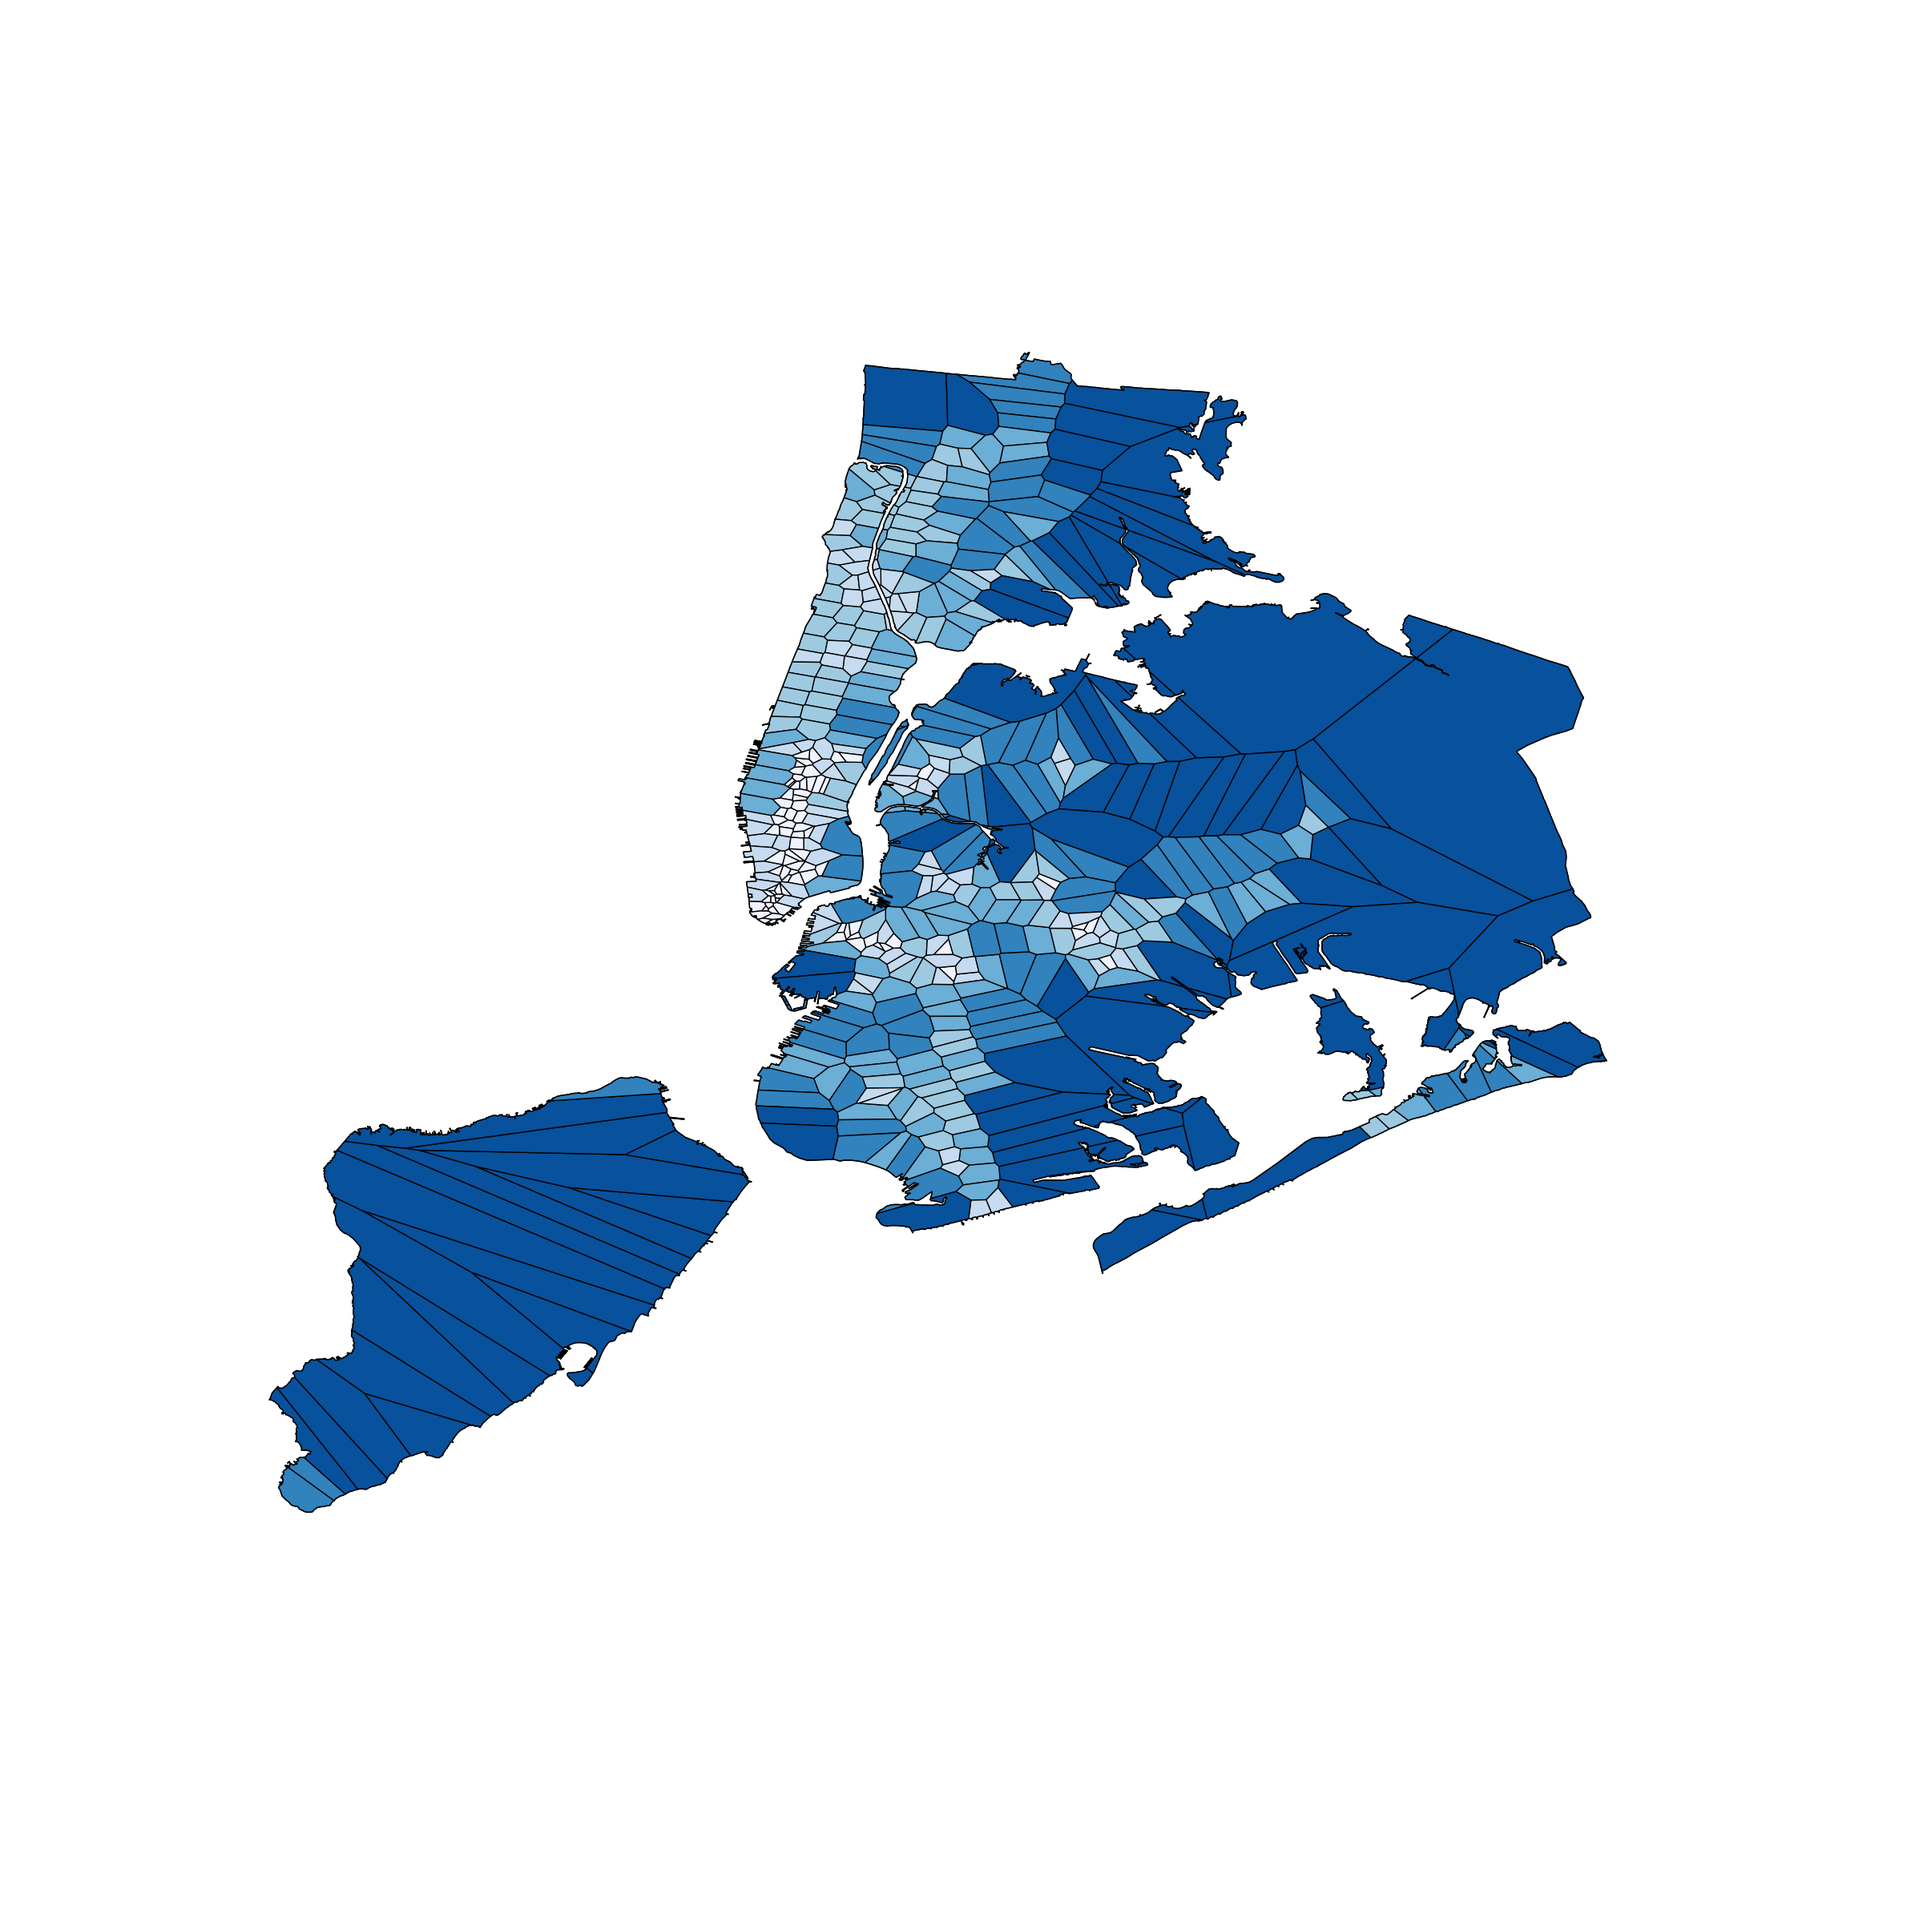
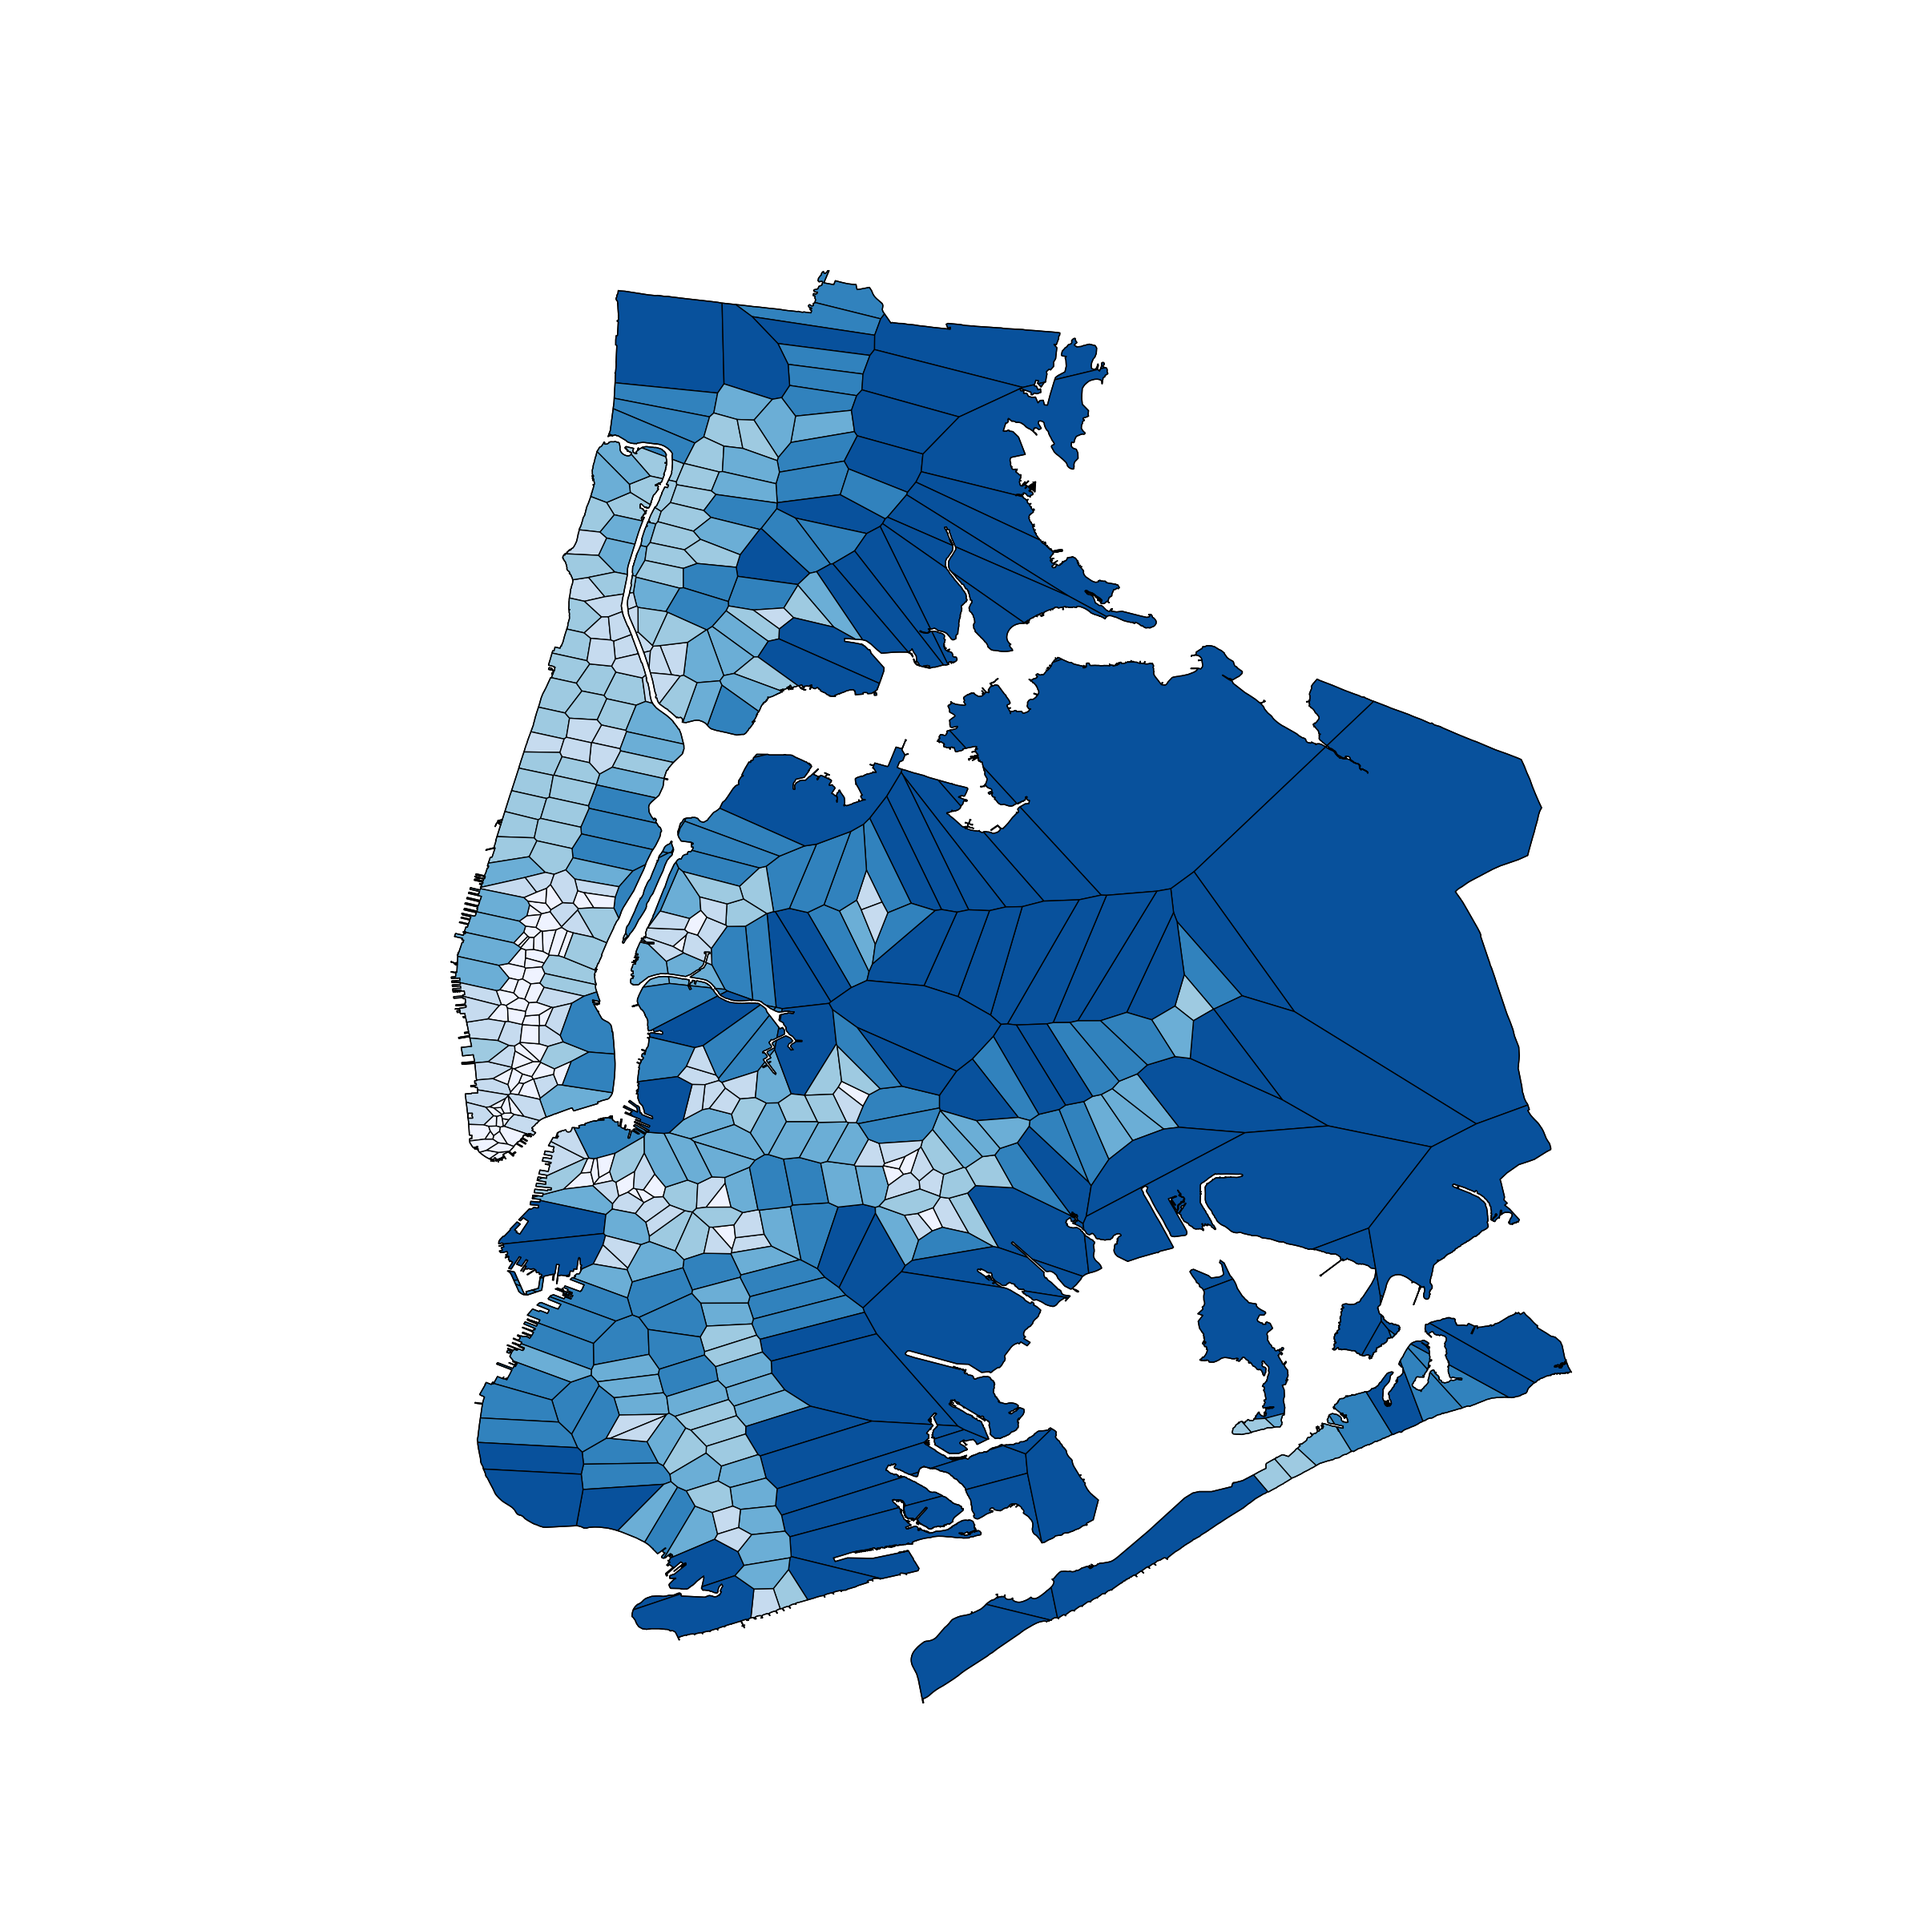
starting to match median to census tract

Changed region(s): [[0.125, 0.125, 0.8438, 0.875]]

diff --git a/median_match.py b/median_match.py
@@ -1,0 +1,30 @@
+# match median income data with subway stop region data
+import pickle
+import numpy as np
+
+stops = pickle.load(open('save/stops.p','rb'))
+tracts = pickle.load(open('save/tracts.p','rb'))
+
+stops['xmin'] = np.tile(np.nan, len(stops))
+stops['xmax'] = np.tile(np.nan, len(stops))
+stops['ymin'] = np.tile(np.nan, len(stops))
+stops['ymax'] = np.tile(np.nan, len(stops))
+for i in range(len(stops)):
+    stop = stops.iloc[i]
+    bounds = stop['region'].bounds
+    stops['xmin'].iloc[i] = bounds[0]
+    stops['xmax'].iloc[i] = bounds[2]
+    stops['ymin'].iloc[i] = bounds[1]
+    stops['ymax'].iloc[i] = bounds[3]
+
+tracts['xmin'] = np.tile(np.nan, len(tracts))
+tracts['xmax'] = np.tile(np.nan, len(tracts))
+tracts['ymin'] = np.tile(np.nan, len(tracts))
+tracts['ymax'] = np.tile(np.nan, len(tracts))
+for i in range(len(tracts)):
+    tract = tracts.iloc[i]
+    bounds = tract['region'].bounds
+    tracts['xmin'].iloc[i] = bounds[0]
+    tracts['xmax'].iloc[i] = bounds[2]
+    tracts['ymin'].iloc[i] = bounds[1]
+    tracts['ymax'].iloc[i] = bounds[3]

diff --git a/median.py b/median.py
@@ -6,6 +6,8 @@ from pyproj import Proj, transform
 from shapely.geometry import Polygon
 from geopandas import GeoDataFrame
 
+import pickle
+
 # read in census income data
 incomes = read_csv('save/median')
 for i in range(len(incomes)):
@@ -40,3 +42,5 @@ for i in range(len(tracts)):
     tract = tracts.iloc[i]
     income = incomes[incomes['GEOID'] == tract['geoid']].iloc[0]['MEDIAN_INCOME']
     tracts['income'].iloc[i] = income
+
+pickle.dump(tracts,open('save/tracts.p','wb'))
